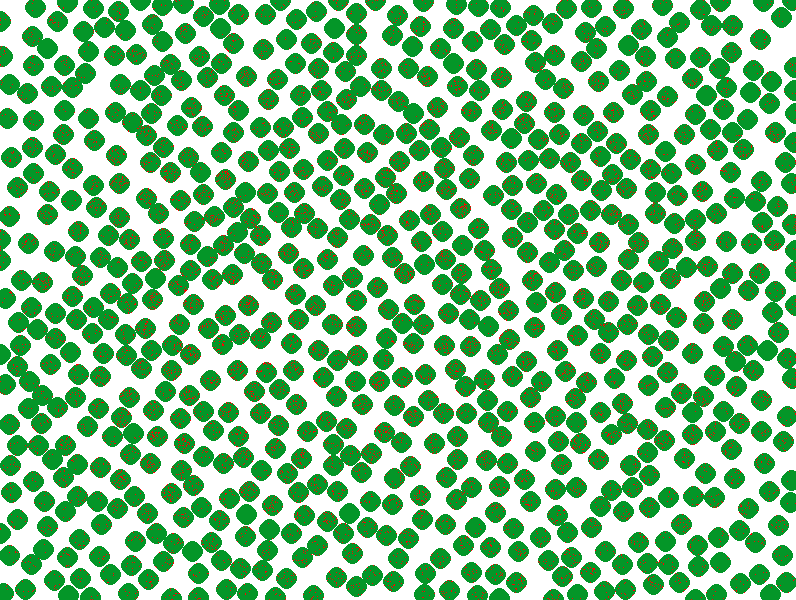
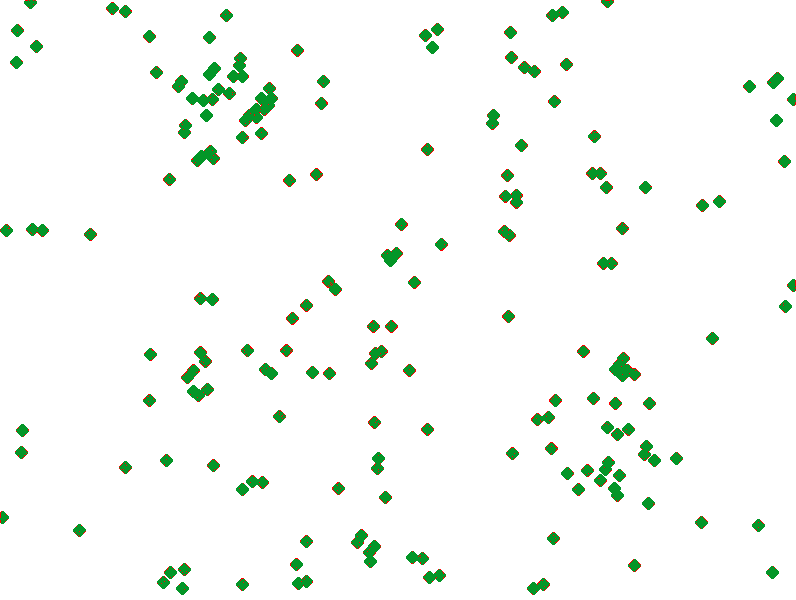
found a better midpoint circle implementation

diff --git a/test_circle.py b/test_circle.py
@@ -1,11 +1,6 @@
 from PIL import Image
 import numpy as np
 
-"""
-small library to handle 'drawing' in a matrix
-and interfacing with PIL
-"""
-
 def clip(value,bound):
     """
     caps a value such that it is in the interval [0,bound). values outside
@@ -14,15 +9,36 @@ def clip(value,bound):
     """
     return max(0, min(value, bound-1))
 
-def make_none_matrix(h,w):
-    """
-    makes a matrix the size of the image, filled with NaN
-    """
-    matrix = np.empty((h,w,3))
-    matrix[:] = np.NAN
-    return matrix
-
 def circle_perimeter(x_bound, y_bound, x0, y0, radius):
+    """
+    x-bound: represents the width of the image. i.e. x coord can be [0, x).
+    y-bound: represents the height of the image. i.e. y coord can be [0, y).
+    point: tuple representing the point at the center of which we define a circle
+    radius: float
+    algorithm: https://en.wikipedia.org/wiki/Midpoint_circle_algorithm
+    implementation: http://degenerateconic.com/midpoint-circle-algorithm/
+    """
+    x = radius
+    y = 0
+    err = 1-x
+    while x >= y:
+        coords =   [(clip(x0 + x, x_bound), clip(y0 + y, y_bound)),
+                    (clip(x0 - x, x_bound), clip(y0 + y, y_bound)),
+                    (clip(x0 + x, x_bound), clip(y0 - y, y_bound)),
+                    (clip(x0 - x, x_bound), clip(y0 - y, y_bound)),
+                    (clip(x0 + y, x_bound), clip(y0 + x, y_bound)),
+                    (clip(x0 - y, x_bound), clip(y0 + x, y_bound)),
+                    (clip(x0 + y, x_bound), clip(y0 - x, y_bound)),
+                    (clip(x0 - y, x_bound), clip(y0 - x, y_bound))]
+        y += 1
+        if err < 0:
+            err += 2*y + 1
+        else:
+            x -=1 
+            err += 2*(y-x+1)
+        yield coords
+
+def circle_perimeter2(x_bound, y_bound, x0, y0, radius):
     """
     x-bound: represents the width of the image. i.e. x coord can be [0, x).
     y-bound: represents the height of the image. i.e. y coord can be [0, y).
@@ -49,41 +65,11 @@ def circle_perimeter(x_bound, y_bound, x0, y0, radius):
             err += 1 - 2*x
         yield coords
 
-def drawline(imagematrix, x, y0, y1):
-    # no need to return: update the object in place
-    if y0 < y1:
-        low = y0
-        high = y1
-    else:
-        high = y0
-        low = y1
-    for y in range(low, high + 1):
-        imagematrix[x][y] = [4,150,40]
+im = Image.new("RGB", (128, 128), "white")
+radius = 3
 
-def circle_fill(imagematrix, x_bound, y_bound, x0, y0, radius):
-    """
-    x-bound: represents the width of the image. i.e. x coord can be [0, x).
-    y-bound: represents the height of the image. i.e. y coord can be [0, y).
-    point: tuple representing the point at the center of which we define a circle
-    radius: float
-    algorithm: https://en.wikipedia.org/wiki/Midpoint_circle_algorithm
-    """
-    """
-    for coords in circle_perimeter(x_bound, y_bound, x0, y0, radius):
-        for (x,y) in coords:
-            imagematrix[x][y] = [15,15,150]
-    """
-    x = radius
-    y = 0
-    err = 0
-    while x >= y:
-        drawline(imagematrix, clip(x0 + x, x_bound), clip(y0 + y, y_bound), clip(y0 - y, y_bound))
-        drawline(imagematrix, clip(x0 - x, x_bound), clip(y0 + y, y_bound), clip(y0 - y, y_bound))
-        drawline(imagematrix, clip(x0 + y, x_bound), clip(y0 + x, y_bound), clip(y0 - x, y_bound))
-        drawline(imagematrix, clip(x0 - y, x_bound), clip(y0 - x, y_bound), clip(y0 + x, y_bound))
+for coords in circle_perimeter(128, 128, 64, 64, radius):
+    for (x,y) in coords:
+        im.putpixel((x,y),(50, 200, 50))
 
-        y += 1
-        err += 1 + 2*y
-        if 2*(err-x) + 1 > 0:
-            x -= 1
-            err += 1 - 2*x
+im.save('ytest.png')

diff --git a/seurat.py b/seurat.py
@@ -9,19 +9,23 @@ def check_candidate(imagematrix, x_bound, y_bound, x0, y0, radius):
     """
     check whether a given point has any neighbors. Returns False if so.
     """
+    
     # we use a generator to iteratively check the points on the perimeter
     # rather than generating them all at once, which would take much longer. 
     #print ">>>", x_bound, y_bound
     for coords in circle_perimeter(x_bound, y_bound, x0, y0, radius):
         for (x,y) in coords:
             # we set all pixels in the imagematrix to None at first.
-            #print x, y
             if np.isnan(imagematrix[x][y][0]):
                 #imagematrix[x][y] = [0,0,255]
                 continue
             else:
                 imagematrix[x][y] = [255,0,0]
                 return False
+
+    # gotta check inside as well
+    if not np.isnan(imagematrix[x0][y0][0]):
+        return False
     return True
 
 def generate_random_point_around(seed, lower_bound_radius, upper_bound_radius):
@@ -52,17 +56,16 @@ def get_poisson_points(image, mindist, radius):
     while to_process:
         pt = to_process.pop(random.randrange(len(to_process)))
         for _ in range(30):
-            new_point = generate_random_point_around(pt, mindist, 2*mindist)
-            if (0 <= new_point[0] < h) and (0 <= new_point[1] < w) and \
-            check_candidate(output, h, w, new_point[0], new_point[1], radius):
+            new_point = generate_random_point_around(pt, r+mindist, 2*(r+mindist))
+            if (0 <= new_point[0] < h) and (0 <= new_point[1] < w) and check_candidate(output, h, w, new_point[0], new_point[1], radius+mindist):
                 to_process.append(new_point)
                 circle_fill(output, h, w, new_point[0], new_point[1], radius)
 
     output = output.reshape((h,w,3))
     return output
 
-r = 5
-mindist = 100
+r = 3
+mindist = 150
 
 opened = Image.open("bear.jpg")
 opened_h = opened.size[0]

diff --git a/README.md b/README.md
@@ -16,3 +16,6 @@ when working with a large image, since that requires a large tree construction. 
 couldn't find a Python implementation. Then I realized that of course I don't need the fully abstract solution, but could do
 an iterative solution with pixel-checking using the midpoint circle algorithm to check along the perimeter of a proposed
 circle.
+
+NB this algo results in clusterings when mindist > 2*r. 
+
